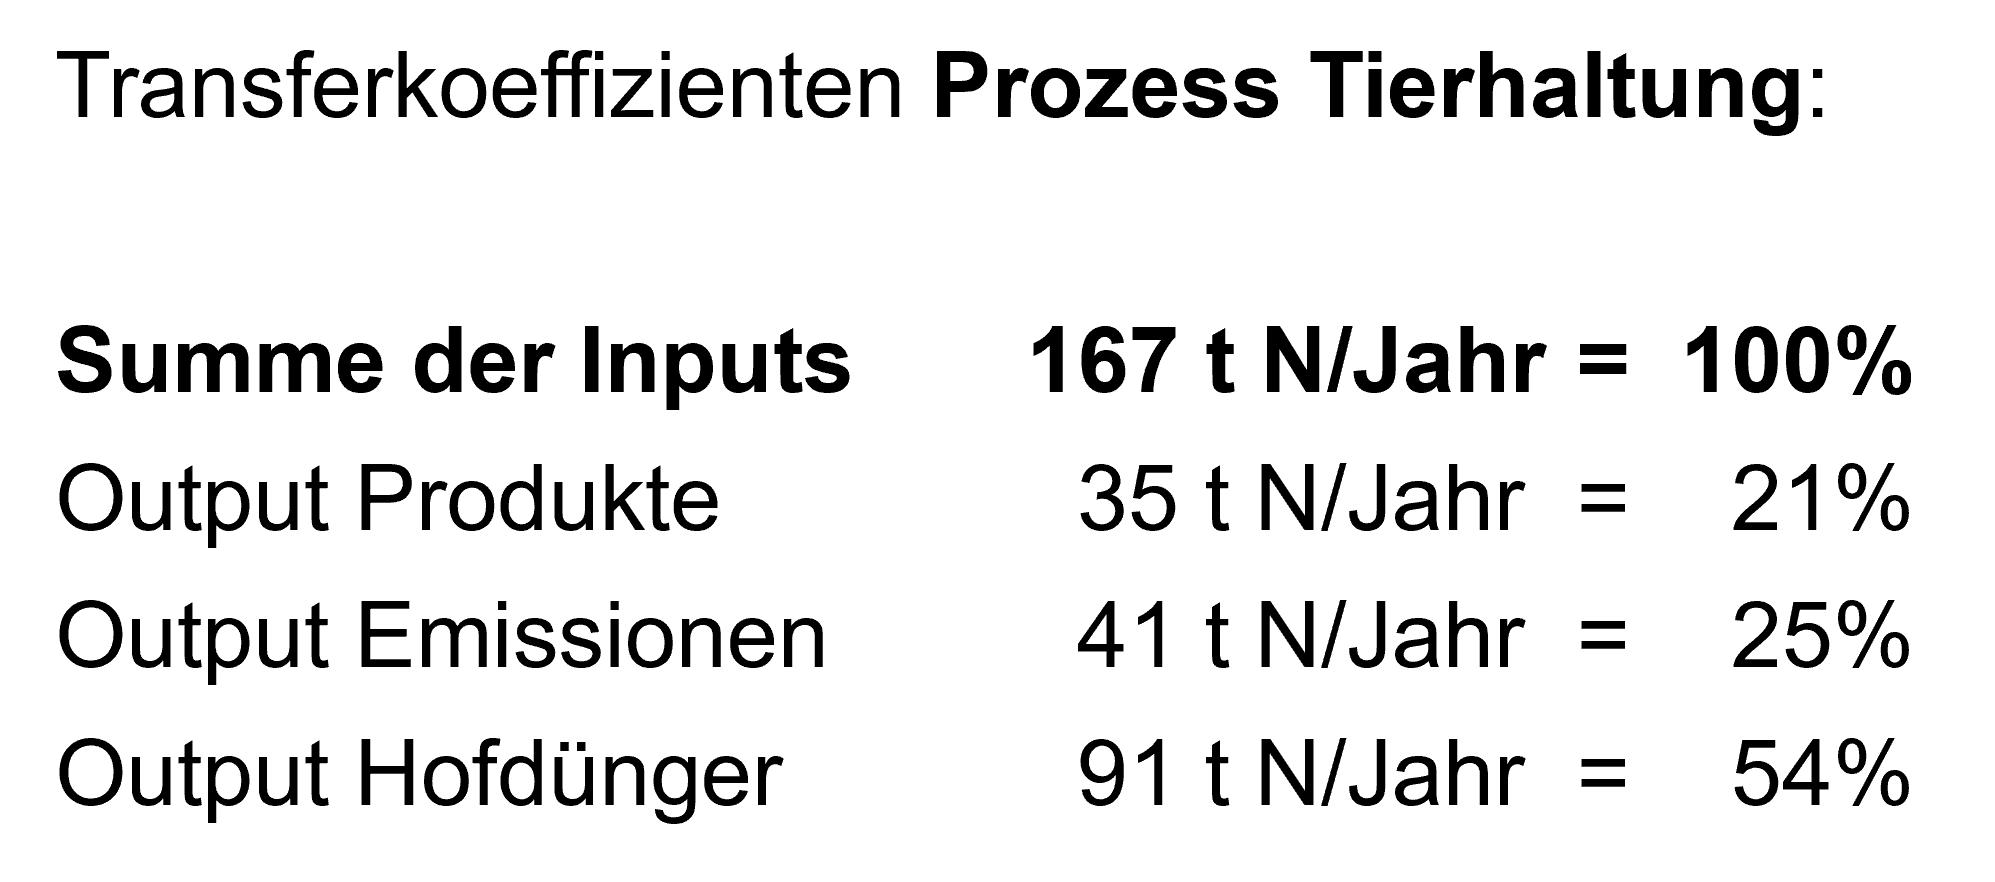
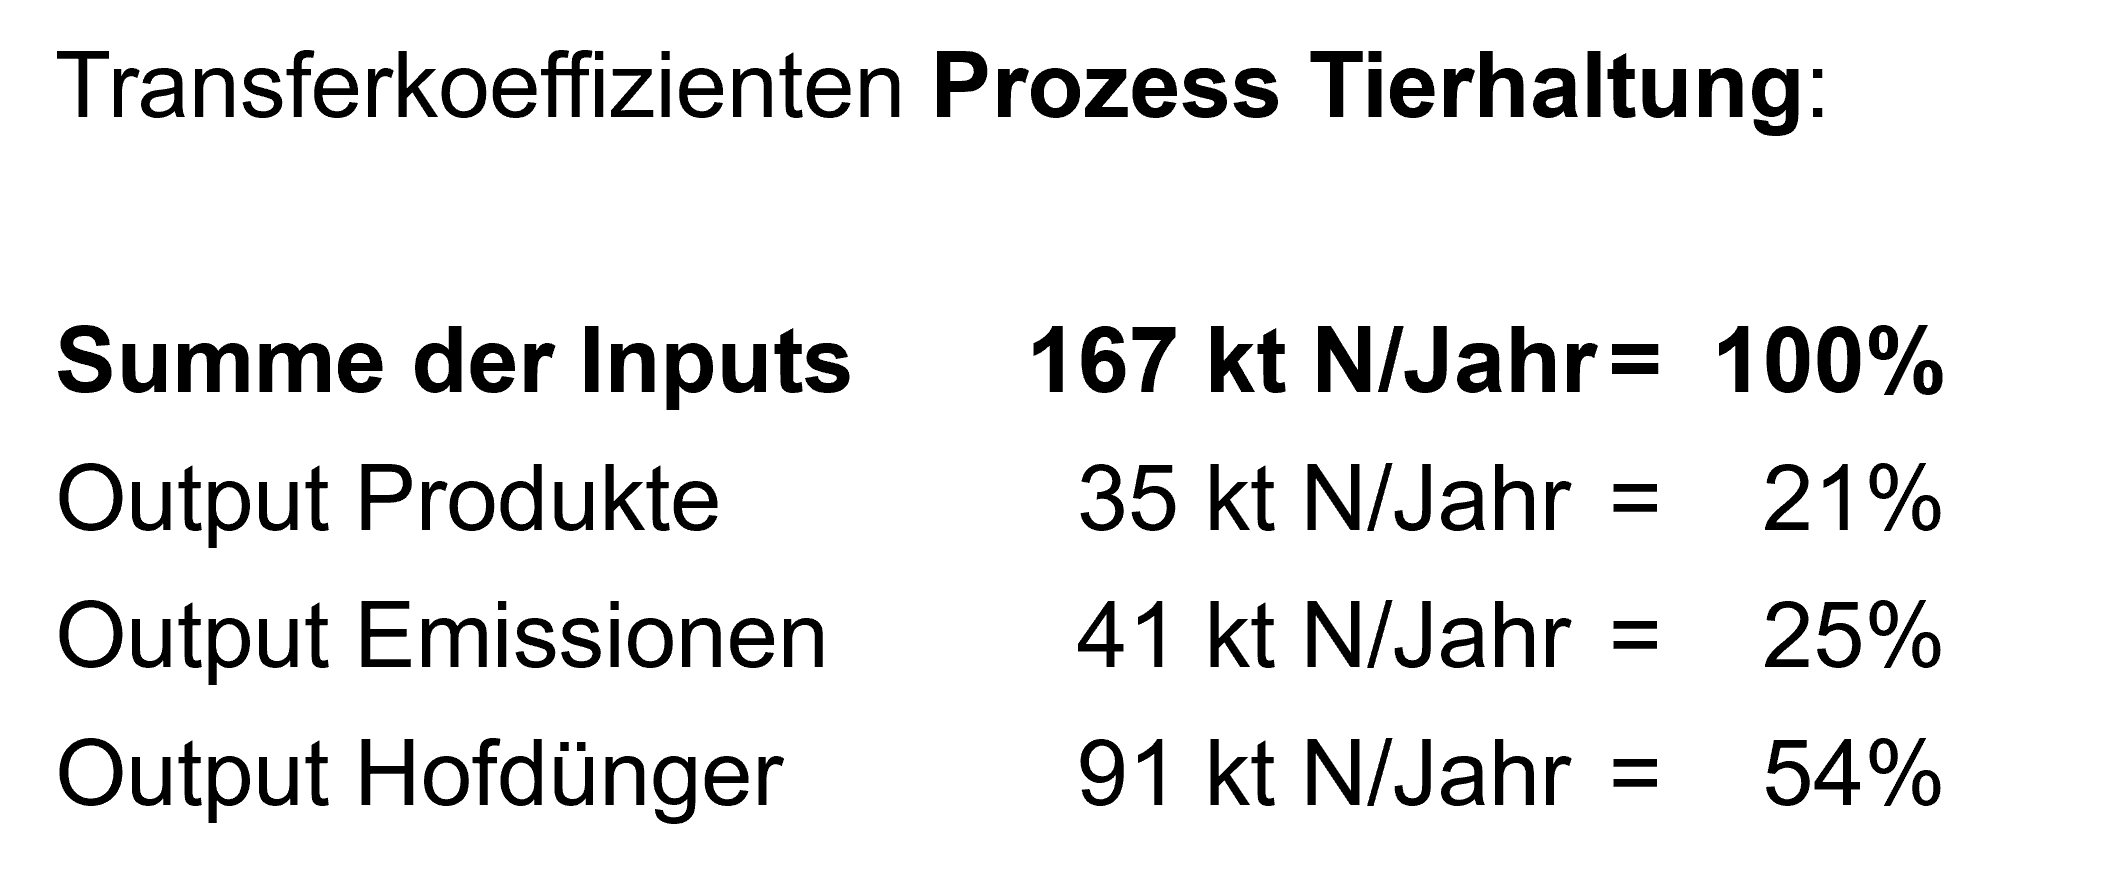
New

diff --git a/docs/Lektion2_1_Bilanzierung.html b/docs/Lektion2_1_Bilanzierung.html
@@ -261,7 +261,7 @@ ul.task-list li input[type="checkbox"] {
 <section id="gleichungssysteme" class="level2">
 <h2 class="anchored" data-anchor-id="gleichungssysteme">Gleichungssysteme</h2>
 <p>Zur mathematischen Beschreibung von MFA- und SFA-Systemen sind das Massen- und Energieerhaltungsgesetz, lineare Beziehungen zwischen In- und Outputflüssen sowie Konzentrationsverhältnisse wichtig.</p>
-<p>Für jeden Prozess stellt STAN eine Bilanzgleichung pro Zeiteinheit auf welche das <strong>Massen-und Energieerhaltungsgesetz</strong> erfüllt. Somit muss die Summe der Inputs der Summe der Outputs und allfälligen Lageränderungen entsprechen. Beispiel: Summe Inputs in den Prozess Tierhaltung = 167 Tonnen Stickstoff (N) pro Jahr = Summe Outputs aus dem Prozess Tierhaltung.</p>
+<p>Für jeden Prozess stellt STAN eine Bilanzgleichung pro Zeiteinheit auf welche das <strong>Massen-und Energieerhaltungsgesetz</strong> erfüllt. Somit muss die Summe der Inputs der Summe der Outputs und allfälligen Lageränderungen entsprechen. Beispiel: Summe Inputs in den Prozess Tierhaltung = 167 Kilotonnen (kt) Stickstoff (N) pro Jahr = Summe Outputs aus dem Prozess Tierhaltung.</p>
 <div class="quarto-figure quarto-figure-center">
 <figure class="figure">
 <p><img src="images/Lektion_2_1_2.png" class="img-fluid figure-img" width="352"></p>
